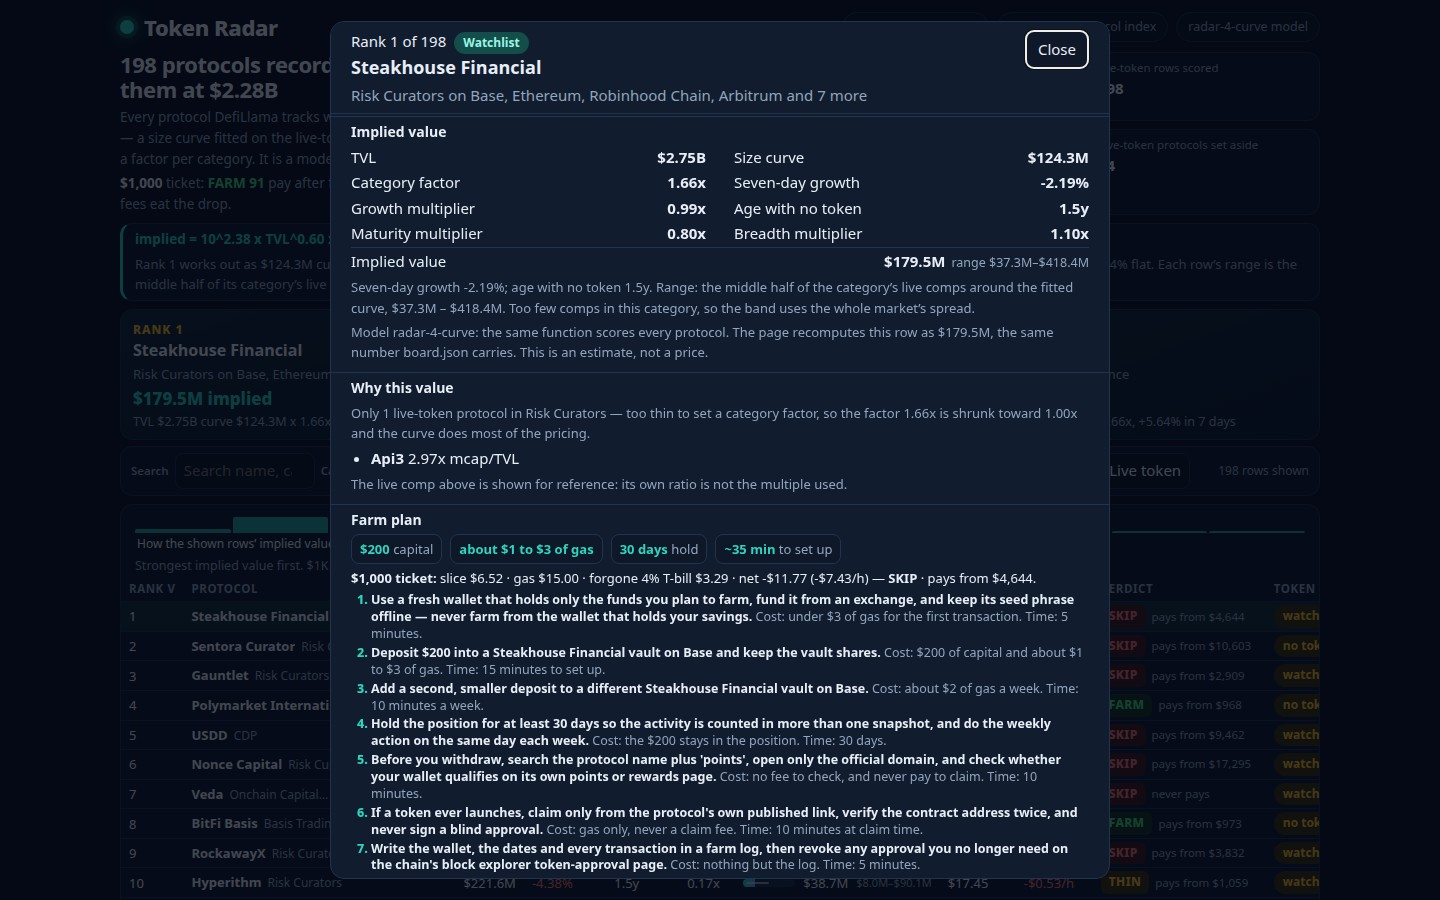
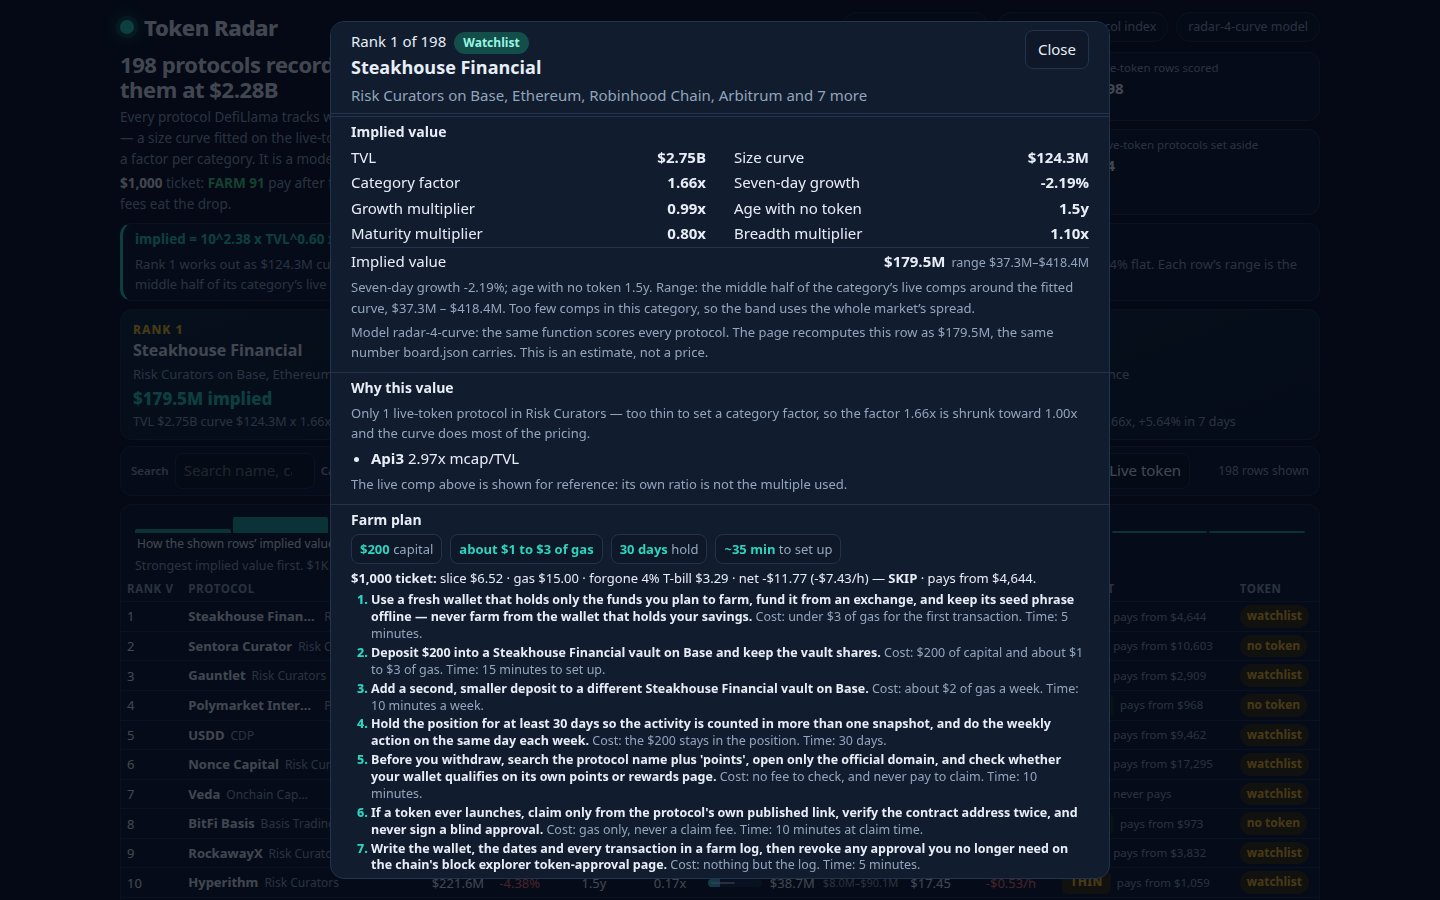
Slot 5 visual fix (H3): stop TOKEN column clipping — 5 CSS-only trims
Table overflowed 36px past the 1200px content width (measured: table
1234px vs .table-wrap 1198px), so .table-wrap overflow-x:auto scrolled
TOKEN off-screen ('watch' / 'no tok' in all 10 rows). Trim 36px+:
.implied min-width 150->130, th/td padding 3px 8px->3px 6px, .name b
max-width 150->130 + .sub 100->84, .bar flex/min-width 32->24px,
.status padding 2px 9px->2px 7px. Re-measured at 1440x900: table 1198px
= wrap 1198px, overflow 0, TOKEN 'watchlist'/'no token' fully readable
in every row; density 10 full + 1 partial rows preserved, detail modal
7/7 farm steps visible. Screenshots retaken on the fixed tree.

diff --git a/dashboard/app.css b/dashboard/app.css
@@ -54,7 +54,7 @@ a{color:var(--teal)}
 .table-wrap{overflow-x:auto}
 table{width:100%;border-collapse:collapse;font-size:13px}
 caption{text-align:left;padding:4px 14px 2px;color:var(--muted);font-size:12.5px;line-height:1.45}
-th,td{padding:3px 8px;text-align:left;border-top:1px solid var(--line);vertical-align:middle}
+th,td{padding:3px 6px;text-align:left;border-top:1px solid var(--line);vertical-align:middle}
 thead th{border-top:0;color:var(--muted);font-size:11.5px;text-transform:uppercase;letter-spacing:.05em;white-space:nowrap}
 thead th button{background:none;border:0;color:inherit;font:inherit;cursor:pointer;padding:0;text-transform:inherit;letter-spacing:inherit}
 thead th button:hover{color:var(--teal)}
@@ -63,15 +63,15 @@ tbody tr:hover{background:#16263d}
 tbody tr[data-selected="true"]{background:#14303a}
 td.num{font-variant-numeric:tabular-nums;white-space:nowrap}
 .name{display:flex;align-items:baseline;gap:6px;white-space:nowrap}
-.name b{font-size:13px;max-width:150px;overflow:hidden;text-overflow:ellipsis}
-.name .sub{color:var(--muted);font-size:12px;max-width:100px;overflow:hidden;text-overflow:ellipsis}
+.name b{font-size:13px;max-width:130px;overflow:hidden;text-overflow:ellipsis}
+.name .sub{color:var(--muted);font-size:12px;max-width:84px;overflow:hidden;text-overflow:ellipsis}
 .global{font-size:11px;color:var(--faint)}
-.implied{display:flex;flex-direction:row;align-items:center;gap:8px;min-width:150px}
+.implied{display:flex;flex-direction:row;align-items:center;gap:8px;min-width:130px}
 .rng-sub{color:var(--muted);font-size:11px;white-space:nowrap}
-.bar{position:relative;flex:1 1 32px;min-width:32px;height:8px;background:#1c2f47;border-radius:99px;overflow:hidden}
+.bar{position:relative;flex:1 1 24px;min-width:24px;height:8px;background:#1c2f47;border-radius:99px;overflow:hidden}
 .bar i{display:block;height:100%;background:linear-gradient(90deg,var(--teal),var(--blue))}
 .bar .rng{position:absolute;top:3px;height:2px;background:var(--ink);opacity:.55;border-radius:2px}
-.status{display:inline-block;border-radius:99px;padding:2px 9px;font-size:12px;font-weight:700;background:#3b2f10;color:var(--amber);white-space:nowrap}
+.status{display:inline-block;border-radius:99px;padding:2px 7px;font-size:12px;font-weight:700;background:#3b2f10;color:var(--amber);white-space:nowrap}
 .status.live{background:#12351f;color:var(--green)}
 .verdict{display:flex;flex-direction:row;gap:6px;align-items:center}
 .verdict-chip{display:inline-block;border-radius:6px;padding:2px 8px;font-size:12px;font-weight:800;letter-spacing:.03em}
